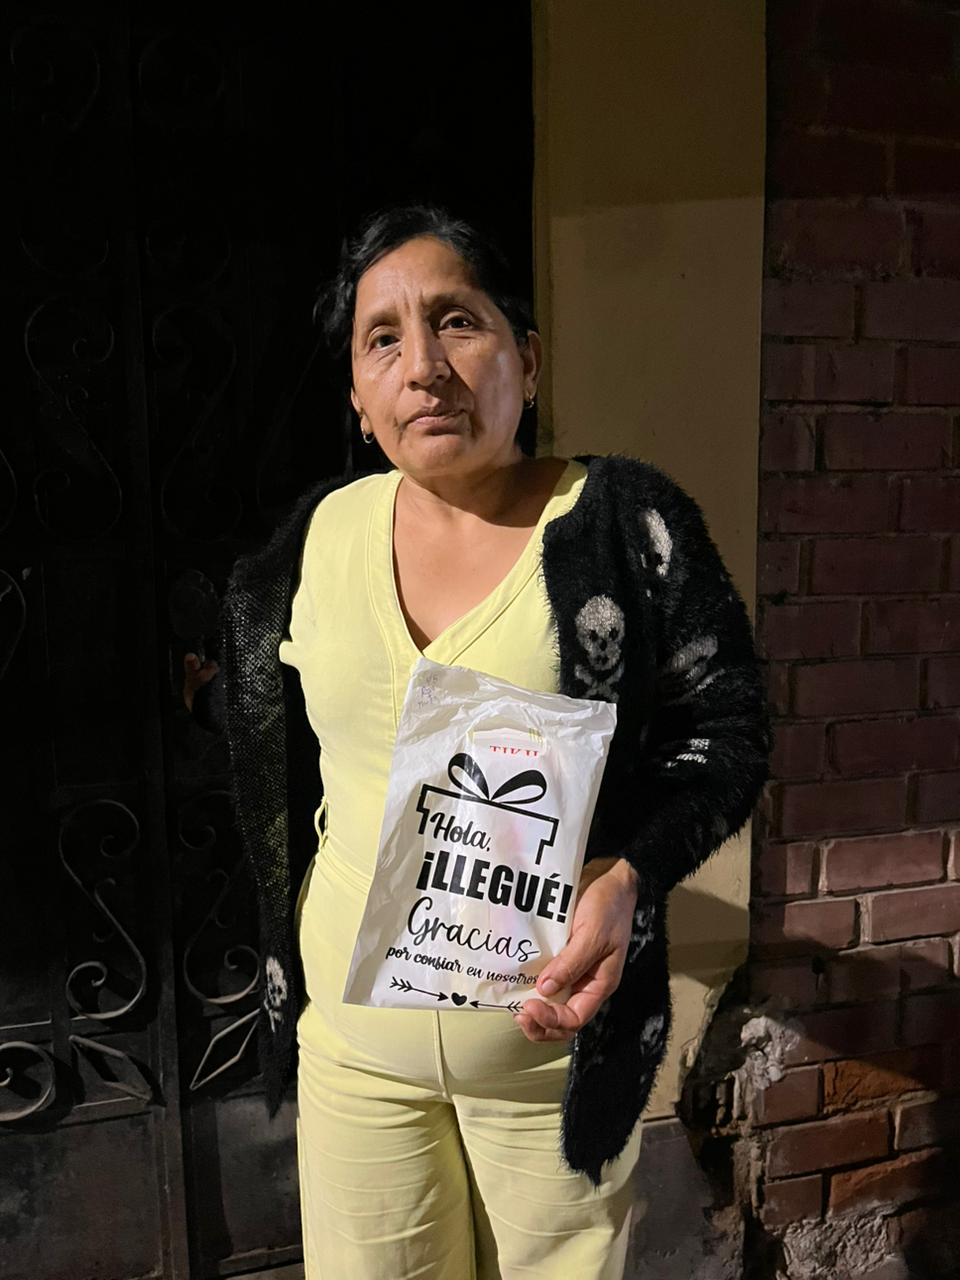
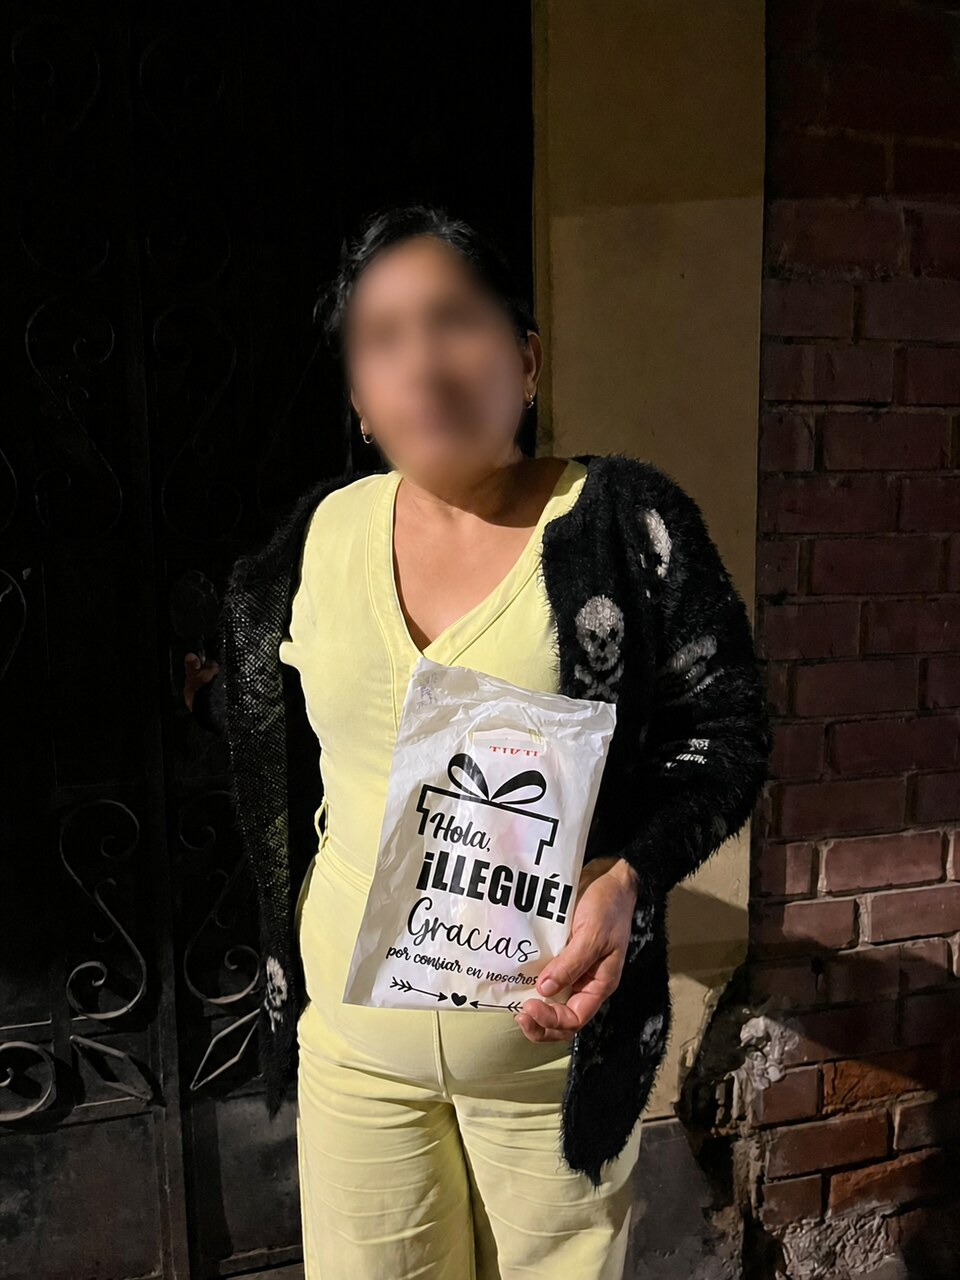
Protege rostro en entrega y mejora fluidez desktop

diff --git a/style.css b/style.css
@@ -8450,3 +8450,45 @@ button, input, select, a { -webkit-tap-highlight-color: transparent; }
     box-shadow: 0 3px 9px rgba(94, 28, 53, .12);
   }
 }
+
+/* Fluidez desktop: menos repintados costosos sin alterar móvil ni standalone. */
+@media (min-width: 769px) {
+  html:not(.modo-standalone) .header {
+    background: rgba(255, 255, 255, .98);
+    -webkit-backdrop-filter: none;
+    backdrop-filter: none;
+  }
+
+  html:not(.modo-standalone) .whatsapp-flotante {
+    animation: none;
+  }
+
+  html:not(.modo-standalone) .producto,
+  html:not(.modo-standalone) .catalogo-panel,
+  html:not(.modo-standalone) .hero-texto {
+    transition-duration: .22s;
+  }
+
+  html:not(.modo-standalone) .producto {
+    transition-property: opacity, transform, border-color, box-shadow;
+  }
+
+  html:not(.modo-standalone) .producto.visible:hover {
+    transform: translateY(-2px);
+  }
+
+  html:not(.modo-standalone) .producto:hover {
+    box-shadow: 0 12px 28px rgba(75, 32, 48, .095);
+  }
+
+  html:not(.modo-standalone) .producto:hover .producto-imagen img {
+    transform: none;
+  }
+
+  html:not(.modo-standalone) .entregas-aitana,
+  html:not(.modo-standalone) .ayuda,
+  html:not(.modo-standalone) footer {
+    content-visibility: auto;
+    contain-intrinsic-size: auto 640px;
+  }
+}
